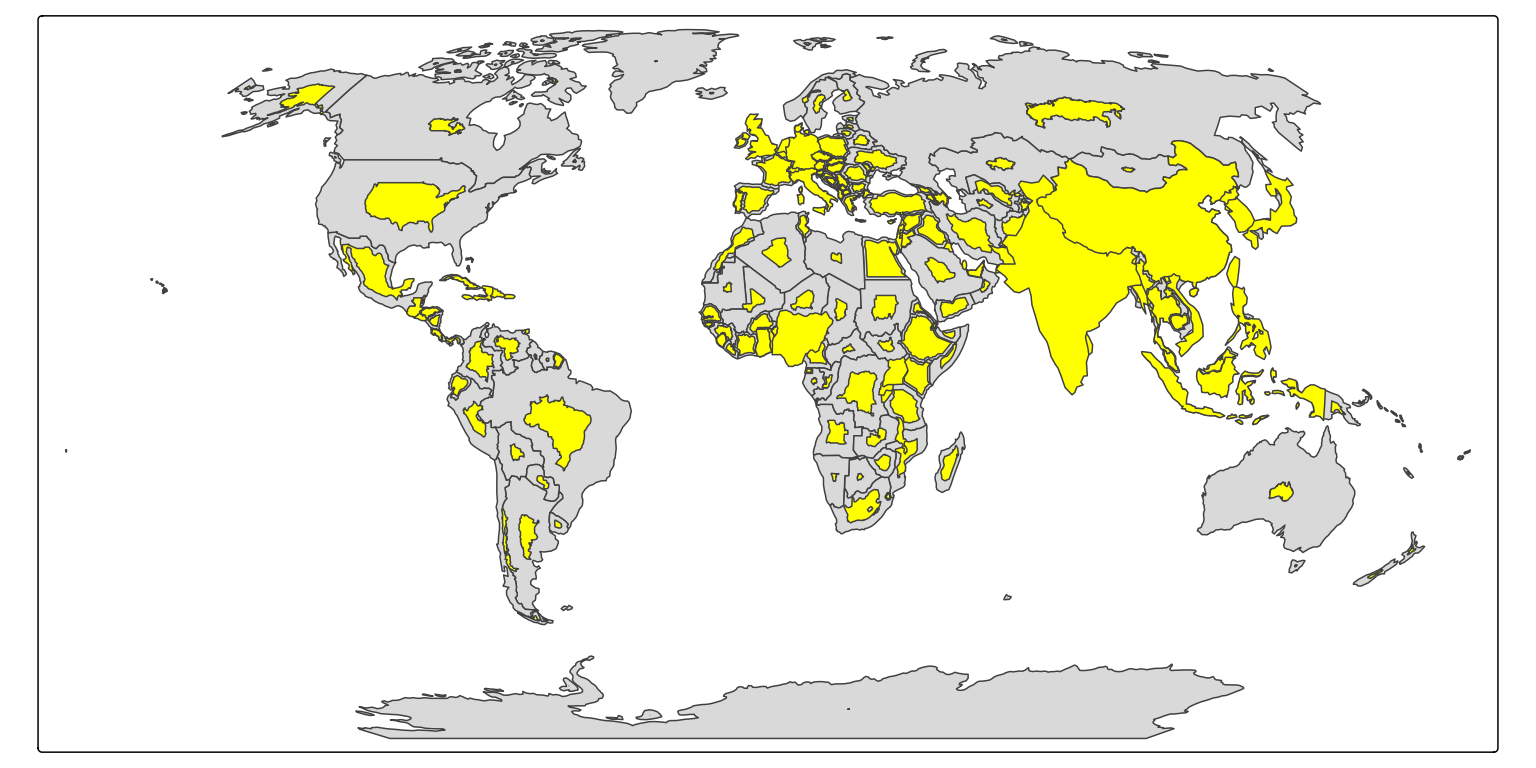
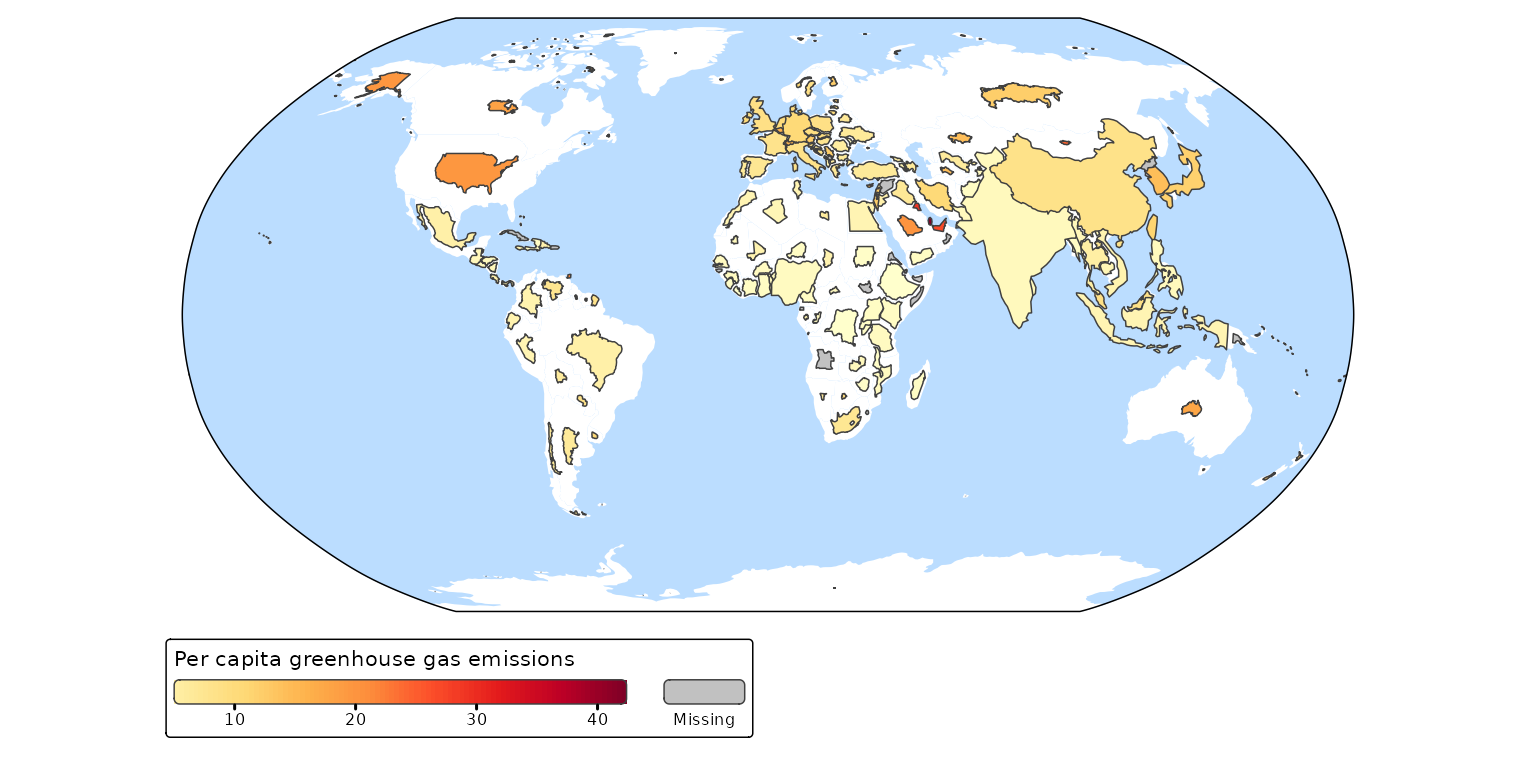
Deploying to gh-pages from @ r-tmap/tmap.cartogram@2839c4125a6b4dac8cdb39e8f6c164729c5c8d51 🚀

diff --git a/articles/cartograms.html b/articles/cartograms.html
@@ -115,9 +115,7 @@ keep its projected CRS when basemaps are disabled.</p>
 <p>We can use polygon fill color to depict a variable, such as Happy
 Planet Index:</p>
 <div class="sourceCode" id="cb2"><pre class="downlit sourceCode r">
-<code class="sourceCode R"><span><span class="va">Africa</span> <span class="op">=</span> <span class="va">World</span><span class="op">[</span><span class="va">World</span><span class="op">$</span><span class="va">continent</span> <span class="op">==</span> <span class="st">"Africa"</span>, <span class="op">]</span></span>
-<span></span>
-<span><span class="fu"><a href="https://r-tmap.github.io/tmap/reference/tm_shape.html" class="external-link">tm_shape</a></span><span class="op">(</span><span class="va">Africa</span>, crs <span class="op">=</span> <span class="st">"+proj=robin"</span><span class="op">)</span> <span class="op">+</span></span>
+<code class="sourceCode R"><span><span class="fu"><a href="https://r-tmap.github.io/tmap/reference/tm_shape.html" class="external-link">tm_shape</a></span><span class="op">(</span><span class="va">Africa</span>, crs <span class="op">=</span> <span class="st">"+proj=robin"</span><span class="op">)</span> <span class="op">+</span></span>
 <span>    <span class="fu"><a href="../reference/tm_cartogram.html">tm_cartogram</a></span><span class="op">(</span>size <span class="op">=</span> <span class="st">"pop_est"</span>, </span>
 <span>                 fill <span class="op">=</span> <span class="st">"life_exp"</span>,</span>
 <span>                 fill.scale <span class="op">=</span> <span class="fu"><a href="https://r-tmap.github.io/tmap/reference/tm_scale_intervals.html" class="external-link">tm_scale_intervals</a></span><span class="op">(</span>values <span class="op">=</span> <span class="st">"-cols4all.bu_br_div"</span><span class="op">)</span>,</span>
@@ -146,11 +144,23 @@ Planet Index:</p>
 <span><span class="fu"><a href="https://r-tmap.github.io/tmap/reference/tm_title.html" class="external-link">tm_title</a></span><span class="op">(</span><span class="st">"Income inequality (Gini coefficient)"</span><span class="op">)</span></span>
 <span><span class="co">#&gt; Cartogram in progress...</span></span></code></pre></div>
 <p><img src="cartograms_files/figure-html/unnamed-chunk-6-1.png" width="768"></p>
-<p>A non-contiguous cartogram of the World:</p>
+<p>A non-contiguous cartogram of the World. The countries are resized
+relative to population. The colors indicate carbon footprint.</p>
 <div class="sourceCode" id="cb5"><pre class="downlit sourceCode r">
 <code class="sourceCode R"><span><span class="fu"><a href="https://r-tmap.github.io/tmap/reference/tm_shape.html" class="external-link">tm_shape</a></span><span class="op">(</span><span class="va">World</span>, crs <span class="op">=</span> <span class="st">"+proj=robin"</span><span class="op">)</span> <span class="op">+</span></span>
-<span>    <span class="fu"><a href="https://r-tmap.github.io/tmap/reference/tm_polygons.html" class="external-link">tm_polygons</a></span><span class="op">(</span><span class="op">)</span> <span class="op">+</span></span>
-<span>    <span class="fu"><a href="../reference/tm_cartogram.html">tm_cartogram_ncont</a></span><span class="op">(</span>size <span class="op">=</span> <span class="st">"pop_est"</span>, fill <span class="op">=</span> <span class="st">"yellow"</span><span class="op">)</span></span>
+<span>  <span class="fu"><a href="https://r-tmap.github.io/tmap/reference/tm_polygons.html" class="external-link">tm_polygons</a></span><span class="op">(</span>fill <span class="op">=</span> <span class="st">"white"</span>, col <span class="op">=</span> <span class="cn">NULL</span><span class="op">)</span> <span class="op">+</span></span>
+<span>  <span class="fu"><a href="../reference/tm_cartogram.html">tm_cartogram_ncont</a></span><span class="op">(</span></span>
+<span>    size <span class="op">=</span> <span class="st">"pop_est"</span>, </span>
+<span>    fill <span class="op">=</span> <span class="st">"footprint"</span>,</span>
+<span>    fill.legend <span class="op">=</span> <span class="fu"><a href="https://r-tmap.github.io/tmap/reference/tm_legend.html" class="external-link">tm_legend</a></span><span class="op">(</span><span class="st">"Per capita greenhouse gas emissions"</span>, </span>
+<span>      orientation <span class="op">=</span> <span class="st">"landscape"</span>, bg.color <span class="op">=</span> <span class="st">"white"</span><span class="op">)</span>,</span>
+<span>    fill.scale <span class="op">=</span> <span class="fu"><a href="https://r-tmap.github.io/tmap/reference/tm_scale_continuous.html" class="external-link">tm_scale_continuous</a></span><span class="op">(</span>values <span class="op">=</span> <span class="st">"brewer.yl_or_rd"</span>,</span>
+<span>      values.range <span class="op">=</span> <span class="fu"><a href="https://rdrr.io/r/base/c.html" class="external-link">c</a></span><span class="op">(</span><span class="fl">0</span>, <span class="fl">1</span><span class="op">)</span><span class="op">)</span><span class="op">)</span> <span class="op">+</span></span>
+<span><span class="fu"><a href="https://r-tmap.github.io/tmap/reference/tm_layout.html" class="external-link">tm_layout</a></span><span class="op">(</span>earth_boundary <span class="op">=</span> <span class="cn">TRUE</span>,</span>
+<span>  frame <span class="op">=</span> <span class="cn">FALSE</span>,</span>
+<span>  earth_boundary.lwd <span class="op">=</span> <span class="fl">2</span>,</span>
+<span>  bg.color <span class="op">=</span> <span class="st">"#bbddff"</span>,</span>
+<span>  space.color <span class="op">=</span> <span class="st">"white"</span><span class="op">)</span></span>
 <span><span class="co">#&gt; Cartogram in progress...</span></span></code></pre></div>
 <p><img src="cartograms_files/figure-html/unnamed-chunk-7-1.png" width="768"></p>
 </div>
